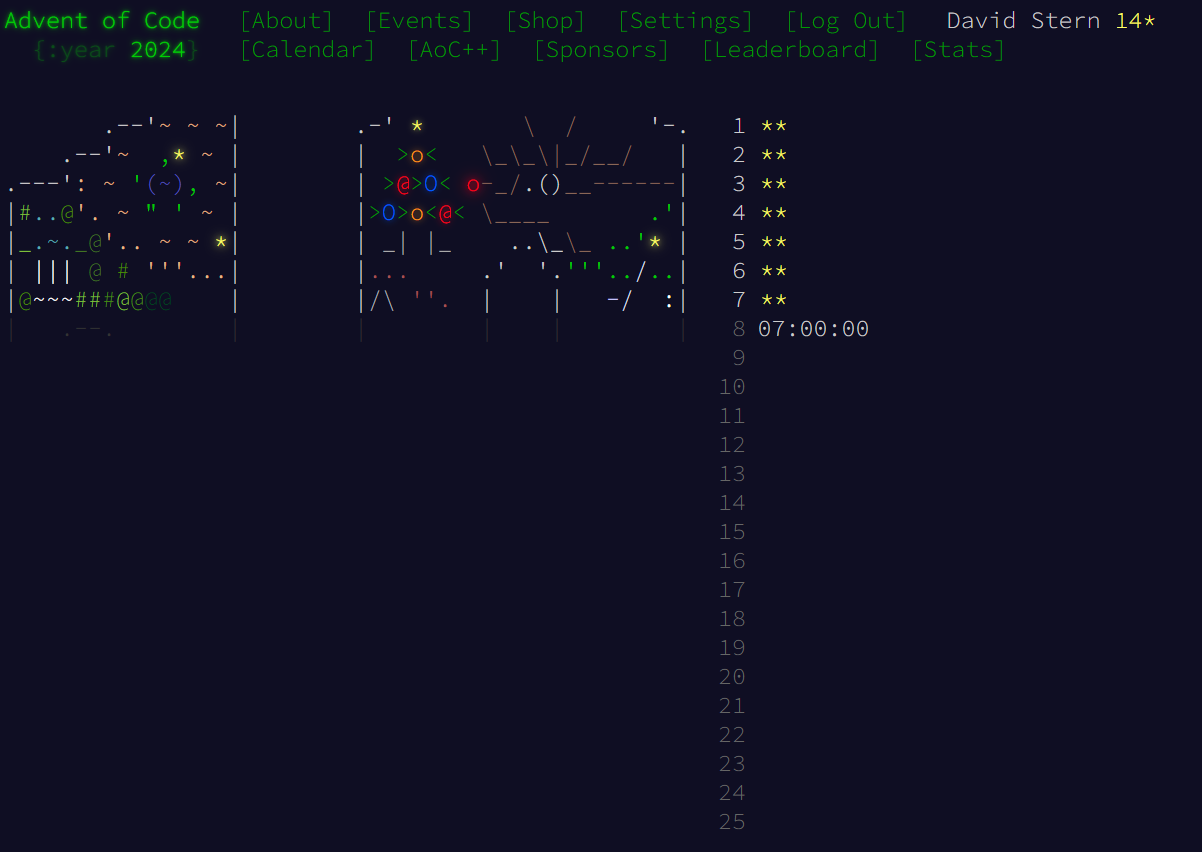
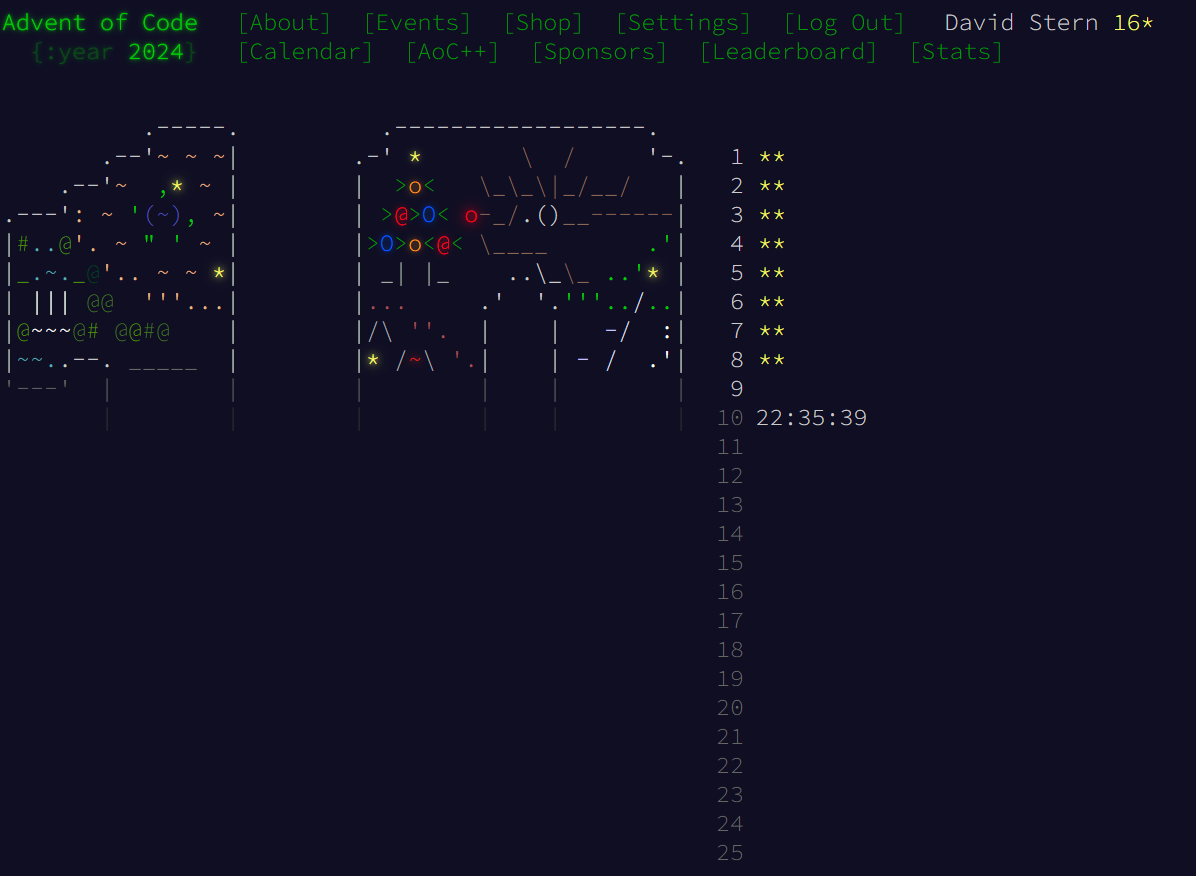
finished Day8 part1 & 2

diff --git a/src/advent_solutions/day8.rs b/src/advent_solutions/day8.rs
@@ -12,32 +12,67 @@ struct Antenna {
 
 type OrderedPair = (i64, i64);
 
+
 impl Antenna {
-    fn generate_antinodes_with_distance_bound(&self, other: &Self) -> [OrderedPair;2]  {
+    fn generate_antinodes_without_distance_bound(&self, other: &Self, city_map: &[Vec<char>]) -> Vec<OrderedPair> {
+        //! Without the antinode distance bound, we generate antinodes forever until we go off the map.
+        
+        //The closure stops the loops when we go off the edge of the city map
+        let is_off_the_map = |row: i64, col: i64| -> bool {
+            row < 0 || row >= city_map.len() as i64 || col < 0|| col >= city_map[0].len() as i64
+        };
+        let mut antinode_locations = Vec::new();
+        let col_delta = self.col - other.col;
+        let row_delta = self.row - other.row;
+        //Generate all possible antinodes based off the position of `self`
+        let mut scale_factor1 = 0;
+        while !is_off_the_map(self.row + scale_factor1 * row_delta, self.col + scale_factor1 * col_delta) {
+            antinode_locations.push((self.row + scale_factor1 * row_delta, self.col + scale_factor1 * col_delta));
+            scale_factor1 += 1;
+        }
+        //Generate all possible antinodes based off the position of `other` in the antenna pair.
+        let mut scale_factor2 = 0;
+        while !is_off_the_map(other.row - scale_factor2 * row_delta, other.col - scale_factor2 * col_delta) {
+            antinode_locations.push((other.row - scale_factor2 * row_delta, other.col - scale_factor2 * col_delta));
+            scale_factor2 += 1;
+        }
+        antinode_locations
+    }
+    fn generate_antinodes_with_distance_bound(&self, other: &Self, city_map: &[Vec<char>]) -> Vec<OrderedPair>  {
         //! Generate the two antinodes for a given pair of antenna that are in line with the two antennas, 
         //! and obey the rule that the antinode must be twice as far from one antennas as the other.
         //! It turns out that simply replicating the delta in the columns/rows between the two antennas will satisfy
         //! the requirements.  
-        //! 
-        //! Importantly, this function does not check if the antinodes are on or off the map!
+        //! The returned ordered pairs are guranteed to be in the map!
+        let is_off_the_map = |row: i64, col: i64| -> bool {
+            row < 0 || row >= city_map.len() as i64 || col < 0|| col >= city_map[0].len() as i64
+        };
         let col_delta = self.col - other.col;
         let row_delta = self.row - other.row;
+        //With the distance bound in place, the two possible antinodes are as simple as this to express!
         let node1 = (self.row + row_delta, self.col + col_delta);
         let node2 = (other.row - row_delta, other.col - col_delta);
-        [node1, node2]
+        [node1, node2].into_iter().filter(|(row, col)| !is_off_the_map(*row, *col)).collect::<Vec<_>>()
     }
-
 
 }
 
-fn generate_all_possible_antinodes(antennas: &[Antenna]) -> HashSet<OrderedPair> {
-    //! Examine all possible pairs of antinodes from the passed in slice of `Antenna`.
+
+
+fn generate_all_possible_antinodes(antennas: &[Antenna], city_map: &[Vec<char>], apply_distance_bound: bool) -> HashSet<OrderedPair> {
+    //! Examine all possible pairs of antinodes from the passed in slice of `Antenna`. The `city_map` is used to check
+    //! if the antinode position is inside the city map, and also to stop the antinode generation when there is no distance bound.
     let mut unique_ordered_pairs = HashSet::new();
     for antenna_number in 0..antennas.len() - 1 {
         for other_antenna_number in antenna_number+ 1..antennas.len() {
             let antenna_1 = antennas[antenna_number];
             let antenna_2 = antennas[other_antenna_number];
-            unique_ordered_pairs.extend(antenna_1.generate_antinodes_with_distance_bound(&antenna_2));
+            if apply_distance_bound {
+                unique_ordered_pairs.extend(antenna_1.generate_antinodes_with_distance_bound(&antenna_2, city_map));
+            }
+            else {
+                unique_ordered_pairs.extend(antenna_1.generate_antinodes_without_distance_bound(&antenna_2, city_map));
+            }
         }
     }
     unique_ordered_pairs
@@ -61,25 +96,29 @@ fn construct_antenna_map(city_map: &[Vec<char>]) -> HashMap<char, Vec<Antenna>> 
 
 impl SolveAdvent for Day8 {
     fn solve_part1(path_to_file: &str) -> anyhow::Result<()> {
+        //! Count unique antinodes with the distance rule in place (the antinode must be exactly twice the distance from
+        //! one antenna as the other).
         let file_contents = read_input_file(path_to_file)?;
         let city_map = file_contents.lines().map(|line| line.chars().collect::<Vec<_>>()).collect::<Vec<_>>();
         let antenna_map = construct_antenna_map(&city_map);
         let mut unique_antinodes = HashSet::new();
-        for (_frequency, antennas) in antenna_map.iter() {
-            let valid_antinodes = generate_all_possible_antinodes(antennas);
-            //Need to check and see if the antinode if off the map, in which case we ignore it
-            for antinode in valid_antinodes {
-                if antinode.0 < 0 || antinode.0 >= city_map.len() as i64 || antinode.1 < 0|| antinode.1 >= city_map[0].len() as i64 {
-                    continue;
-                }
-                unique_antinodes.insert(antinode);
-            }            
+        for antenna_group in antenna_map.values() {
+            unique_antinodes.extend( generate_all_possible_antinodes(antenna_group, &city_map, true));           
         }
         println!("There are {} unique antinode positions in the city", unique_antinodes.len());
         Ok(())
     }
 
-    fn solve_part2(_path_to_file: &str) -> anyhow::Result<()> {
+    fn solve_part2(path_to_file: &str) -> anyhow::Result<()> {
+        //! Generate unique antinodes without any distance constraint.
+        let file_contents = read_input_file(path_to_file)?;
+        let city_map = file_contents.lines().map(|line| line.chars().collect::<Vec<_>>()).collect::<Vec<_>>();
+        let antenna_map = construct_antenna_map(&city_map);
+        let mut unique_antinodes = HashSet::new();
+        for antenna_group in antenna_map.values(){
+            unique_antinodes.extend(generate_all_possible_antinodes(antenna_group, &city_map, false));           
+        }
+        println!("There are {} unique antinode positions in the city", unique_antinodes.len());
         Ok(())
     }
 }

diff --git a/src/main.rs b/src/main.rs
@@ -4,6 +4,6 @@ use crate::advent_solutions::SolveAdvent;
 
 fn main() -> anyhow::Result<()> {
     Day8::solve_part1("input.txt")?;
-    Day8::solve_part2("test.txt")?;
+    Day8::solve_part2("input.txt")?;
     Ok(())
 }

diff --git a/README.md b/README.md
@@ -1,5 +1,5 @@
 ## Progress Summary
-Just like last year, I am working through the 2024 [Advent of Code](https://adventofcode.com/2024) problems. I currently have `14` stars. Each day's solutions are found in the `/advent_solutions` folder under the day in question. As requested by the creator of the problems, I do not provide the input text, only the code solutions. To run a certain solution, ensure that the correct input text is placed in an `input.txt` file. Just like last year, solutions implement the following trait: 
+Just like last year, I am working through the 2024 [Advent of Code](https://adventofcode.com/2024) problems. I currently have `16` stars. Each day's solutions are found in the `/advent_solutions` folder under the day in question. As requested by the creator of the problems, I do not provide the input text, only the code solutions. To run a certain solution, ensure that the correct input text is placed in an `input.txt` file. Just like last year, solutions implement the following trait: 
 ```rust
 pub trait SolveAdvent {
     ///How to solve part1 of the days puzzle.
